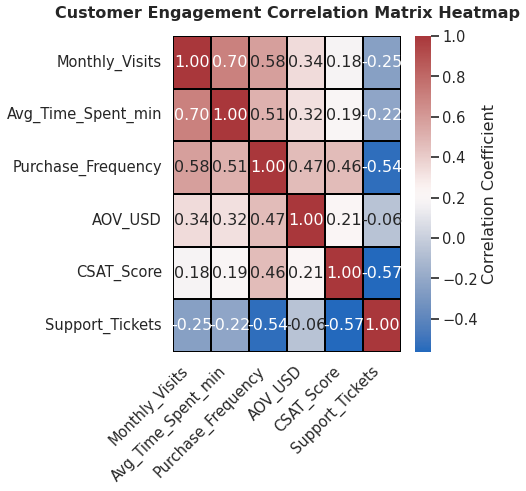
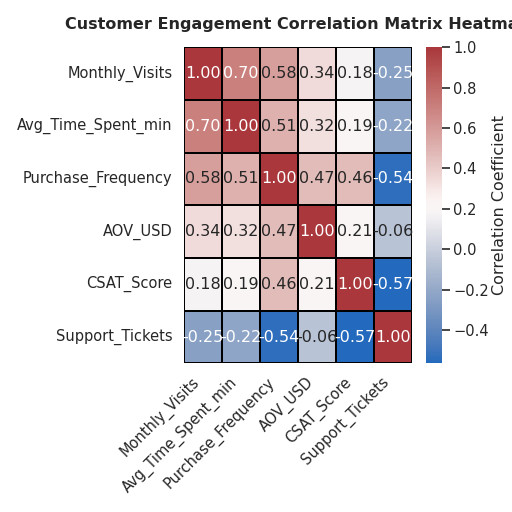
modified to get correct chart size

diff --git a/chart.py b/chart.py
@@ -6,8 +6,7 @@ import numpy as np
 # --- 1. Seaborn Best Practices: Set Professional Style and Context ---
 # Use 'whitegrid' for a clean, professional background
 sns.set_style("whitegrid")
-# Use 'poster' or 'talk' context for presentation-ready text sizes
-# 'talk' is a good balance for executive reports
+# Use 'talk' context for presentation-ready text sizes for executive reports
 sns.set_context("talk") 
 
 # --- 2. Data Generation: Create realistic synthetic data ---
@@ -17,15 +16,13 @@ metrics = [
     'Avg_Time_Spent_min',
     'Purchase_Frequency',
     'AOV_USD', # Average Order Value
-    'CSAT_Score', # Customer Satisfaction Score
+    'CSAT_Score', # Customer Satisfaction Score (1-5 scale)
     'Support_Tickets'
 ]
 
 # Generate synthetic data with realistic interdependencies
-# We use a multivariate normal distribution to ensure realistic correlations
 # Define a desired correlation matrix (realistic expectations for retail)
 # High positive correlation: Visits & Time, Visits & Purchase Frequency
-# Moderate positive correlation: Purchase Freq & AOV, CSAT & Purchase Freq
 # Negative correlation: Support Tickets with CSAT and Purchase Freq
 desired_corr = np.array([
     [1.0, 0.70, 0.65, 0.40, 0.20, -0.30],
@@ -37,7 +34,6 @@ desired_corr = np.array([
 ])
 
 # Use the desired correlation matrix to generate a covariance matrix
-# Assuming standard deviations (std devs) for data columns
 stds = np.array([4, 10, 1.5, 50, 0.8, 2])
 cov = np.outer(stds, stds) * desired_corr
 
@@ -49,10 +45,8 @@ data = np.random.multivariate_normal(
     size=500
 )
 
-# Convert to DataFrame
+# Convert to DataFrame and clip/round values to ensure they are realistic
 df = pd.DataFrame(data, columns=metrics)
-
-# Clip values to ensure they are realistic (e.g., no negative counts)
 df['Monthly_Visits'] = df['Monthly_Visits'].clip(lower=0).round().astype(int)
 df['Purchase_Frequency'] = df['Purchase_Frequency'].clip(lower=0.1)
 df['AOV_USD'] = df['AOV_USD'].clip(lower=20)
@@ -64,8 +58,7 @@ corr_matrix = df.corr()
 
 # --- 3. Create Heatmap Visualization ---
 
-# Set figure size for the required 512x512 output
-# To get 512x512 pixels with dpi=64, we need a figure size of 512/64 = 8
+# Set figure size for the required 512x512 output (8 inches * 64 dpi = 512 pixels)
 plt.figure(figsize=(8, 8)) 
 
 # Create the heatmap
@@ -93,15 +86,15 @@ plt.title(
 plt.yticks(rotation=0)
 plt.xticks(rotation=45, ha='right')
 
-# Adjust layout to prevent labels from being cut off
-plt.tight_layout()
+# Adjust layout to prevent labels/colorbar from being cut off. 
+plt.tight_layout() 
 
 # --- 5. Export: Save as PNG with required dimensions ---
-# 512x512 output requires (8, 8) figsize and dpi=64: 8 inches * 64 dpi = 512 pixels
+# We rely solely on the (8, 8) figsize and dpi=64 after calling plt.tight_layout().
+# Removing bbox_inches='tight' and pad_inches=0 often resolves exact sizing issues.
 plt.savefig(
     'chart.png', 
-    dpi=64, 
-    bbox_inches='tight' # Ensures no borders/labels are cut off
+    dpi=64
 )
 
 print("Heatmap successfully generated and saved as 'chart.png' with 512x512 dimensions.")
